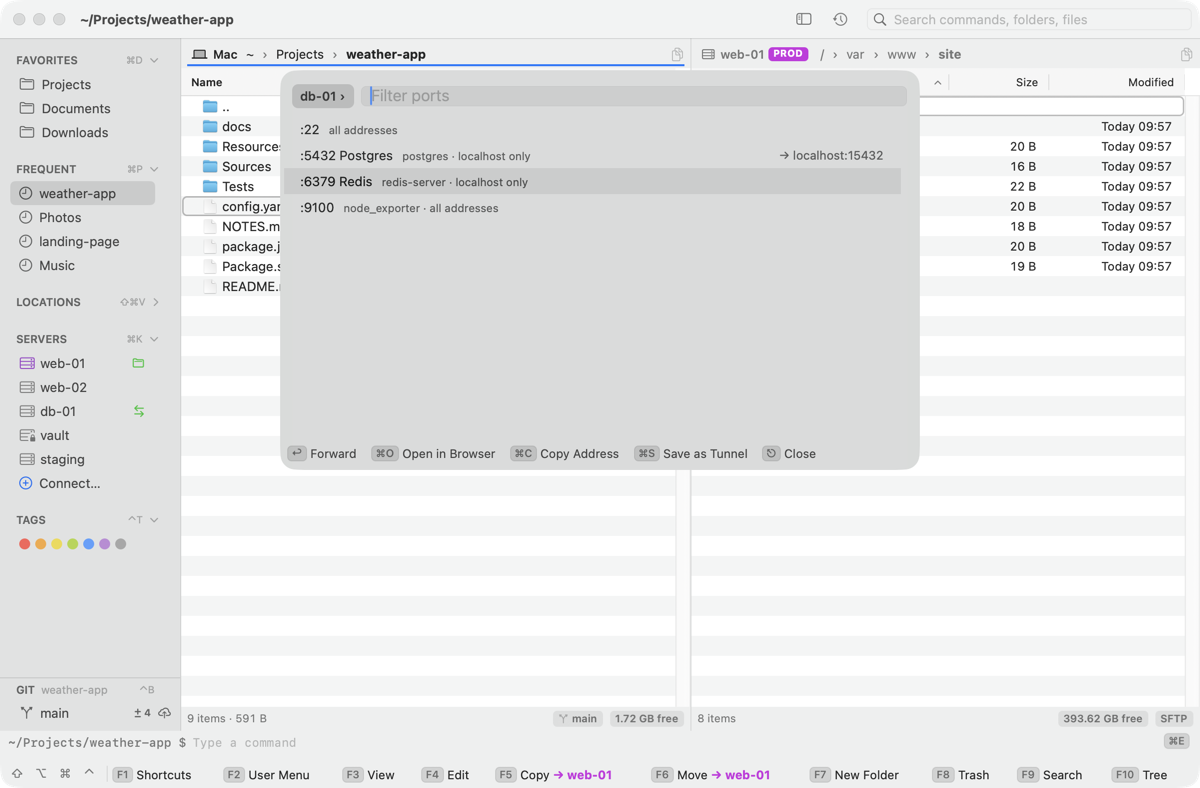
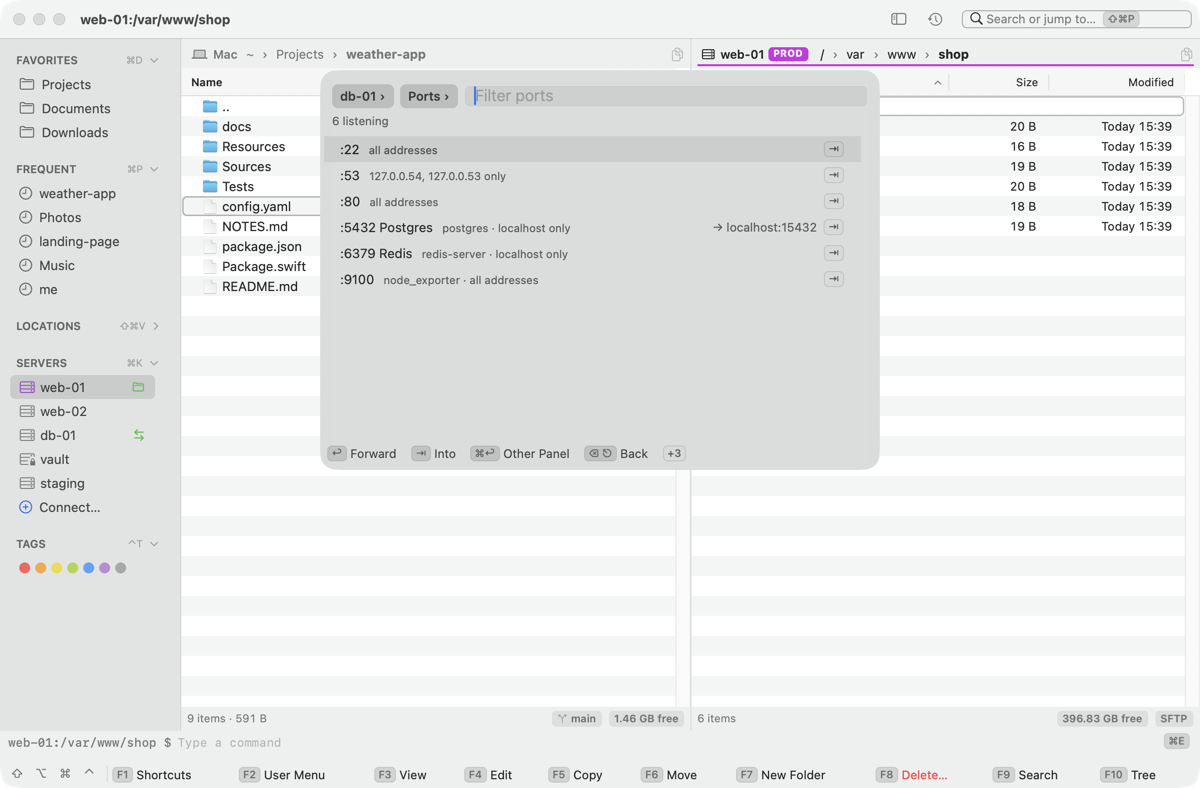
Docs: screenshots of 1.6 — search, a server's overview, its lists (D-128)
Re-shot with the mock home and throwaway servers: the main window (the toolbar's Search or
jump to… button), Services… and Forward Port… in search, the sidebar's server rows. New:
search empty and for a server (On Servers), nginx's actions, a server's overview in a panel,
a service's log next door. Alt texts say what each shows now; the menu text says Start is
greyed while a service runs, and ⇧⌘P works from the terminal.

diff --git a/docs/servers.md b/docs/servers.md
@@ -55,7 +55,7 @@ To run one command on several servers at once, choose **Run on Servers…** in t
 
 **Services…** asks the server's `systemctl` (systemd's JSON where it has it, its table on an old one), and in the same command whether each service can reload and whether it starts at boot. A row is the service's name, its state (`active · running`, `failed`) and its description; failed ones come first, then by name, and typing searches all three. Services systemd only knows by name (`not-found`) are left out.
 
-![Services… on web-01: a failed worker first, then each service with its state and description](images/services.png)
+![Services… on web-01, in search (web-01 › Services ›): the failed backup-db first, then each service with its state and description; the action bar along the bottom](images/services.png)
 
 | Key | Does |
 |---|---|
@@ -69,9 +69,11 @@ To run one command on several servers at once, choose **Run on Servers…** in t
 The menu has:
 
 - **Status**, **Live Logs**, **Edit Unit File…**, **Refresh Status** (reads its state again, runs nothing), **Copy Service Name**;
-- **Start**, **Stop…**, **Restart**, **Reload**: Reload only for a service that has an `ExecReload`, never a restart in its place;
+- **Start**, **Stop…**, **Restart**, **Reload**: Start greyed out while it runs, Stop… while it doesn't; Reload only for a service that has an `ExecReload`, never a restart in its place;
 - **Enable at Boot**, **Disable at Boot**: only whether it starts at boot (no `--now`), greyed out for a service that's already so, or static, masked or generated;
 - **Reset Failed State**: clears the failed mark (`systemctl reset-failed`), for a failed service only. It doesn't start or fix anything.
+
+![nginx's actions in search (web-01 › Services › nginx ›): each with its key, Start greyed — nginx is running already — and the command each runs](images/service-actions.png)
 
 Along the bottom, the list's action bar shows these keys — **↩ Status**, **⌘L Live Logs**, **⌘R Restart**, **⌃↩ Actions**, **⎋ Close**, and ⌘E and ⌘C under **+2** where there's no room — and a click on one does what the key does. Before the field, **web-01 ›** says whose services they are, in purple with PROD on a production server; above the rows, how many units there are and how many failed. A failed service has a red ◆ and its state in red; highlighted, the row is the system's blue, as in every list. A right-click highlights the row it's on first, and the menu acts on that service; a right-click on an empty spot opens no menu. The menu runs the same actions as the keys and shows ⌘L, ⌘E and ⌘R next to its items. What can't run now or doesn't apply is greyed out, and its tooltip says why.
 
@@ -105,6 +107,8 @@ Status and log run as you. Without the `adm` or `systemd-journal` group the log 
 - **⌫** goes to the [server's overview](#the-server-as-a-place), on the list's row; ⎋ stops a read on its way. **View ▸ Refresh** reads it again; a read that fails says why in the middle, with **Retry**. ⌃O opens SSH on its server.
 - While a panel shows the list, the server's connection stays; **Disconnect** closes the list. It isn't a session in the sidebar: the row's green folder means a panel with its files. A restart brings back the server's overview instead, on the list's row: nothing is asked of a server before you ask.
 
+![web-01's Services in the right panel, api under the cursor; its log as it goes in the left panel](images/log-next-door.png)
+
 The connection a look logs in with stays for its idle time (10 minutes, 60 seconds for a locked server) even when no panel shows the server, so the next look, ↩ or ⌘R needs no login; **Disconnect** ends it, and a locked server's ends when the screen locks. The same goes for Forward Port… and Run on Servers….
 
 On a production server a change of a service or a restart of a container asks first, ↩ being Cancel, and goes into the [production log](safety.md#production-log). A name goes into a command only if it's made of the characters systemd or docker allow in one; any other name is listed, and its keys only say why nothing runs. A log stopped with ⎋ stops on the server too, not just on this Mac.
@@ -120,6 +124,8 @@ A server's **overview** in a panel lists what's there, as rows that ↩ goes int
 | **Services**, **Containers**, **Ports** | [the list in this panel](#in-a-panel), read as it opens |
 | **Tunnels** | its tunnels as a list in this panel, from this Mac: ↩ turns one on or off, ⌘C copies its address, F4 edits, F8 deletes, **＋ New Tunnel…** over the columns ([tunnels](tunnels.md)) |
 | **File History** | the versions of its files kept on this Mac ([file history](server-files.md#file-history)) |
+
+![web-01's overview in a panel: Files, Home, /, then Services with 1 failed and 79 units, Containers, Ports, Tunnels and File History](images/server-overview.png)
 
 Opening it sends nothing to the server, production and locked ones included: no Touch ID, no login, no command. Its counts — `10 units`, `1 failed` (◆), `4 containers`, `6 listening` — are what the lists last read, shown while a connection to the server is up; else `—`, until you open that row. Tunnels says how many are on, from this Mac. The first row that goes to the server asks for Touch ID on a locked one, as any connection does.
 

diff --git a/docs/window.md b/docs/window.md
@@ -102,7 +102,7 @@ How to use it:
 
 ## Search
 
-Press ⇧⌘P (or F9, ⌥9), or click **Search or jump to…** in the toolbar. Search opens over the panels and finds, in groups:
+Press ⇧⌘P (or F9, ⌥9; from the terminal ⇧⌘P), or click **Search or jump to…** in the toolbar. Search opens over the panels and finds, in groups:
 
 - **commands** by name or synonym ("zip" finds Compress), with the menu each is in and its key on the right (F1 lists every key);
 - **servers:** every saved one, the hosts of `~/.ssh/config` and the addresses you typed lately, with their PROD, ROOT and locked chips;
@@ -110,11 +110,15 @@ Press ⇧⌘P (or F9, ⌥9), or click **Search or jump to…** in the toolbar. S
 - **folders:** Favorites, frequent folders and volumes;
 - **files** in the active panel.
 
+![Search for web-01: the server with its PROD chip, then its overview's rows under On Servers — Files, Ports, Tunnels, Services, Containers, File History — each a ⇥ away](images/search-servers.png)
+
 ↑↓ choose, ↩ runs a command or opens the rest: a folder, a server as a double-click on its sidebar row does (its files), an overview's row in the active panel. ⌘↩ opens a folder, a server's files or an overview's row in the other panel. ⎋ closes. The action bar along the bottom says what the keys do on the highlighted row. The last row searches the disk (⌘F), and says so when nothing else matches.
 
 **⇥ goes into** a row with more behind it (⇥ on its right): a server lists its [overview](servers.md#the-server-as-a-place) — nothing is sent for it — then **Services**, **Containers**, **Ports** or **Tunnels** list what they list, read as the list in a panel reads it (Touch ID first on a locked server, "Looking at services…", ⎋ stops it), and a row there lists its actions: its key on the right, why it can't now under one that can't, red what can't be undone. Chips before the field say where you are: **web-01 › Services › nginx ›**, the server's in its color. ↩ does on each row what ↩ does on it in a panel — an action asks first where it would anyway, over the search, and the line under the rows says how it went; a row's keys (⌘R, ⌘L, ⌘C) work without ⇥. ⌘↩ shows the list you're in in the other panel, as it is, without reading it again. ⌫ on an empty field or ⎋ goes back a level, to what you typed there; ⎋ at the top closes.
 
 Empty, it lists what you choose most and lately (**Recent**: each choice counts, older ones fade), then Favorites and servers; ✕ or ⌘⌫ takes a row out of Recent.
+
+![Search, empty: web-01 under Recent with its ✕, then Favorites, then the other servers with their chips; the action bar says ↩ Open, ⇥ Into, ⌘↩ Other Panel, ⎋ Close](images/search.png)
 
 ## Pickers
 

diff --git a/docs/tunnels.md b/docs/tunnels.md
@@ -32,7 +32,7 @@ A local port that's taken is said at once, with the next free one ("Use 15433").
 
 **Forward Port…** (⇧⌘P, **Server ▸ Ports & Tunnels**, or a server's sidebar menu, also under its **Tunnels**) asks the server what it listens on — its own `ss`, or `netstat` where there's no `ss` (BusyBox included) — on the server the panel or SSH tab is on, or one you pick, saved or not. A locked server asks for Touch ID first, and a password, if one is due, is asked next. The ports list in [search](window.md#search), on the server's overview: while it looks, it says so, and ⎋ stops it; ⌫ or ⎋ then goes to the overview.
 
-![Forward Port… on db-01: its ports with their programs and where they listen; Postgres already goes to localhost:15432](images/forward-port.png)
+![Forward Port… on db-01, in search (db-01 › Ports ›): its ports with their programs and where they listen; Postgres already goes to localhost:15432](images/forward-port.png)
 
 Each port is a row: ":5432 Postgres · postgres · localhost only", ":80 · nginx · all addresses". The program shows where the server shows it: without root, `ss` and `netstat` name only your own processes. A port that listens on one other address alone is forwarded to that address. A port a tunnel of the server already forwards says where: "→ localhost:15432".
 
